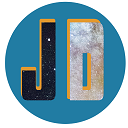
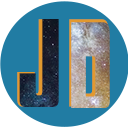
added pngs and background

diff --git a/src/components/DataText/DataText.js b/src/components/DataText/DataText.js
@@ -95,18 +95,18 @@ function DataText({ data, changeSelector }) {
         </div>
         <div className="view-2">
           <button className="view-button" onClick={() => changeSelector(10)}>
-            Past 10 Games
+           Last 10
           </button>
           <button className="view-button" onClick={() => changeSelector(50)}>
-            Past 50 Games
+           Last 50
           </button>
         </div>
         <div className="view-3">
           <button className="view-button" onClick={() => changeSelector(100)}>
-            Past 100 Games
+            Last 100
           </button>
           <button className="view-button" onClick={() => changeSelector(200)}>
-            Past 200 Games
+            Last 200
           </button>
         </div>
       </div>

diff --git a/src/App.css b/src/App.css
@@ -12,8 +12,11 @@
 }
 
 html {
+  background-image: url("./assets/jeoBackground.png");
+  background-position: center center;
+  background-size: 100% 100%;
+  background-repeat: no-repeat;
   background-color: black;
-  overflow-x: hidden;
 }
 
 body {
@@ -23,7 +26,7 @@ body {
 .title {
   align-self: center;
   display: block;
-  max-width:90vw;
+  max-width:70vw;
   max-height:25vh;
   width: auto;
   height: auto;

diff --git a/src/components/LineChart/LineChart.js b/src/components/LineChart/LineChart.js
@@ -124,7 +124,7 @@ function LineChart({ data, colors }) {
     const xy_mean = meanFinder(xy_vals);
     const xx_mean = meanFinder(xx_vals);
     const m = (x_mean * y_mean - xy_mean) / (x_mean * y_mean - xx_mean);
-    const b = y_mean - m * x_mean;
+    const b = y_mean - (m * x_mean);
     const bestFitData = [];
     for (let i = 0; i < x_vals.length; i++) {
       bestFitData.push(b + m * x_vals[i]);

diff --git a/src/components/DataText/DataText.css b/src/components/DataText/DataText.css
@@ -26,8 +26,6 @@
 
 .data-view-top-right {
   flex: 5;
-  border: 3px solid #E29930;
-  margin: 3px;
 }
 
 .cur-num {
@@ -46,6 +44,8 @@
   flex-direction: column;
   justify-content: space-evenly;
   margin:20px;
+  border: 3px solid #E29930;
+  margin: 10px;
 }
 
 
